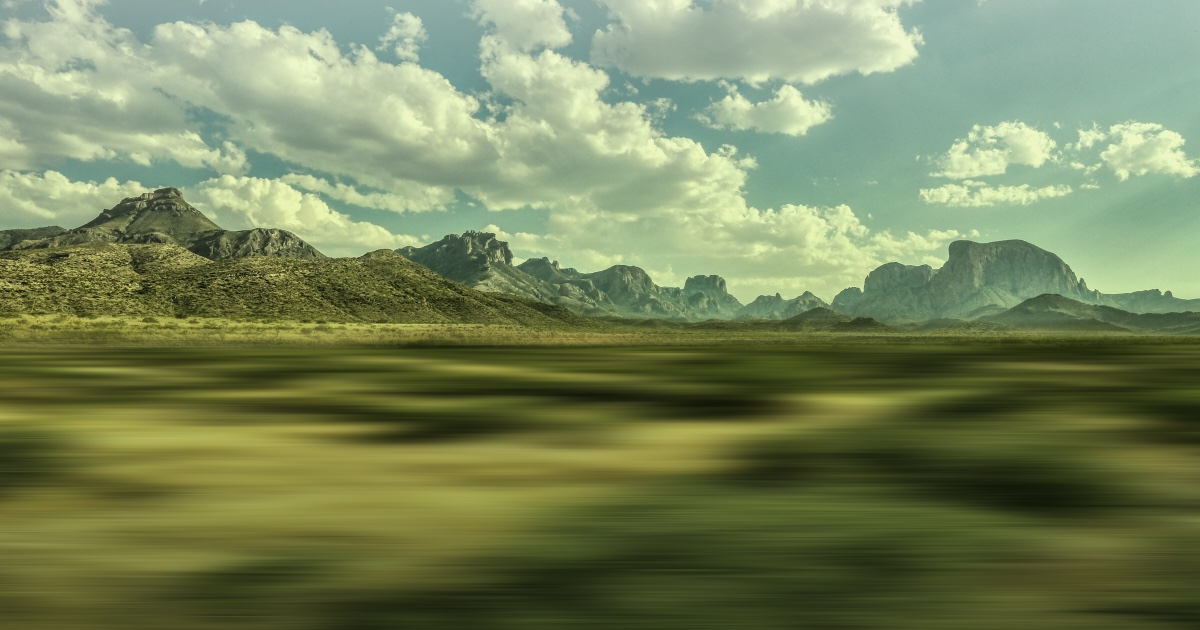
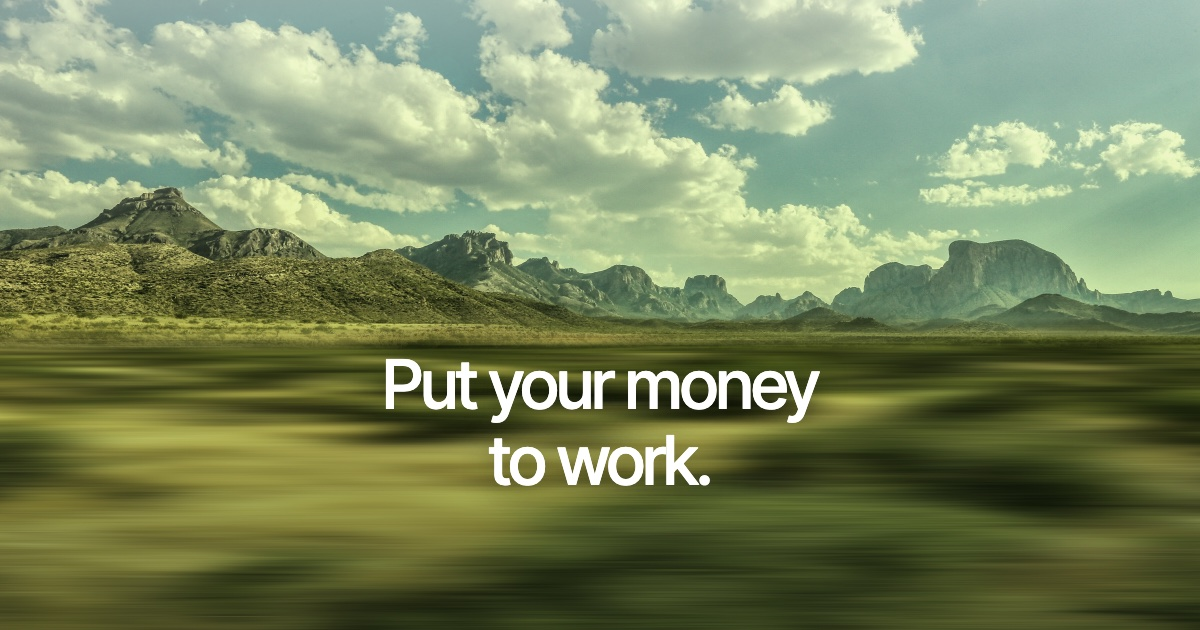
Put the headline on the share image
"Put your money to work." sits on the blurred field like the X banner.

Changed region(s): [[0.3083, 0.573, 0.6783, 0.6635], [0.4008, 0.6937, 0.5858, 0.7841]]

diff --git a/brand/src/banner-photo.html b/brand/src/banner-photo.html
@@ -7,7 +7,7 @@
   Photo: Mick Haupt on Unsplash (Big Bend, Texas), used under the Unsplash License.
   https://unsplash.com/photos/ELuTbEVQdBc
   Query params: ?y=<0-100> moves the photo up and down; ?field=<px> sets where the motion blur starts;
-  ?w=&h= set the canvas size (default 1500x500, the X banner); ?text=0 leaves the words off (share images).
+  ?w=&h= set the canvas size (default 1500x500, the X banner); ?text=0 leaves the words off; ?ty=<px> and ?fs=<px> move and size the words.
 -->
 <link rel="preconnect" href="https://fonts.googleapis.com" />
 <link href="https://fonts.googleapis.com/css2?family=Inter+Tight:wght@500&display=block" rel="stylesheet" />
@@ -77,7 +77,10 @@
   art.querySelectorAll(":scope > rect").forEach((r) => r.setAttribute("width", W));
   art.querySelector(":scope > rect:last-of-type").setAttribute("height", Math.round(H * 0.48));
   art.querySelector(":scope > rect:first-of-type").setAttribute("height", H);
-  if (q.get("text") === "0") document.getElementById("copy").remove();
+  const copy = document.getElementById("copy");
+  if (q.get("text") === "0") copy.remove();
+  if (q.get("ty")) copy.style.top = q.get("ty") + "px";
+  if (q.get("fs")) copy.style.fontSize = q.get("fs") + "px";
   const img = new Image();
   img.onload = () => {
     const h = (W * img.naturalHeight) / img.naturalWidth;
